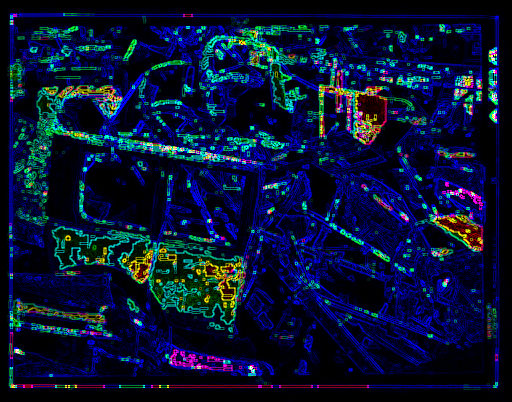
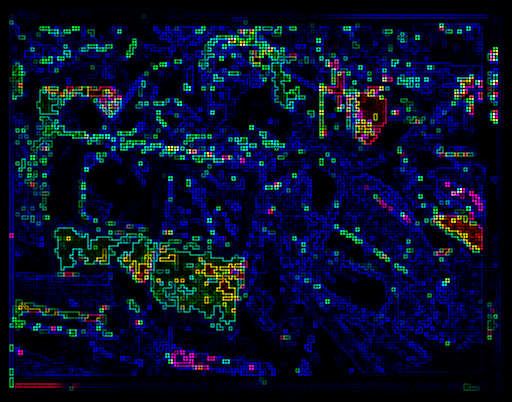
added user-input for pixelize step, updated readme to reflect current functionality

diff --git a/predator.py b/predator.py
@@ -13,20 +13,20 @@ def minmax_rgb(i, w, h, m):
                 minmax = min(i[x][y][0],i[x][y][1],i[x][y][2])
             else:
                 minmax = max(i[x][y][0],i[x][y][1],i[x][y][2])
-            if minmax == i[x][y][0]: # blue is least
+            if minmax == i[x][y][0]: # blue is least/most
                 i[x][y][1] = 0
                 i[x][y][2] = 0 
-            if minmax == i[x][y][1]: # green is least
+            if minmax == i[x][y][1]: # green is least/most
                 i[x][y][0] = 0
                 i[x][y][2] = 0
-            if minmax == i[x][y][2]: # red is least       
+            if minmax == i[x][y][2]: # red is least/most
                 i[x][y][0] = 0
                 i[x][y][1] = 0
             y+=1
         x+=1 
     return i
     
-def pixelize(i, pix_w, pix_h):
+def pixelize(i, s, pix_h):
     i_h, i_w = i.shape[:2]
     # shrink image
     i = cv.resize(i, (pix_w, pix_h), interpolation=cv.INTER_CUBIC)
@@ -35,22 +35,33 @@ def pixelize(i, pix_w, pix_h):
     return pixelized
 
 def sobel(i, k):
-    # the general convention is to use a gaussian blur on the image, 
+    # the general convention is to use a gaussian blur on the image,
     # but the pixelization should take care of that here.
     sobx = cv.Sobel(i,cv.CV_16S,1,0,ksize=k,scale=1,delta=0)
     soby = cv.Sobel(i,cv.CV_16S,0,1,ksize=k,scale=1,delta=0)
     abSobx = cv.convertScaleAbs(sobx) # makes the sobels absolute
     abSoby = cv.convertScaleAbs(soby)
-    # approximates the sobel algo
-    sobtot = cv.addWeighted(abSobx, 0.5, abSoby, 0.5, 0)  
-    cv.imshow('sobel\'d', sobtot)
+    # approximates the sobel algo using built-in cv2 functions
+    # the more precise methods produced far less consistent output,
+    # likely due to floating-point rounding errors
+    sobtot = cv.addWeighted(abSobx, 0.5, abSoby, 0.5, 0)
+    cv.imshow('output', sobtot)
     cv.waitKey(0)
     cv.destroyAllWindows()
 
-pix_w, pix_h = (64, 64)
-k = 3
-mode = 'min'
-if len(sys.argv) > 3:
+# check if a valid filename is given
+try:
+   i = cv.imread(sys.argv[1])
+   hig, wid, _ = i.shape
+except:
+    print("Error: image does not exist")
+    sys.exit(1)
+
+k = 3 # the 'k' value for the sobel filter. default of 3
+mode = 'min' # can choose to minimize or maximize RGB. default of min
+shrinkage = 3 # amount of pixelization averaging. default of 3x3 area
+
+if len(sys.argv) > 2: # if we have a second arg, it should be k
     k = int(sys.argv[2])
     if k%2 == 0:
         print("Error: k must be odd.")
@@ -58,18 +69,15 @@ if len(sys.argv) > 3:
     if k > 31:
         print("Error: k must be less than 32")
         sys.exit(1)
+if len(sys.argv) > 3: # third argument should be min or max
     mode = sys.argv[3]
-    if mode != 'min' or mode != 'max':
+    if mode != 'min' and mode != 'max':
         print("Error: third flag must be \"min\" or \"max\"")
         sys.exit(1)
-    pix_w = int(sys.argv[4])
-    pix_h = int(sys.argv[5])
-try:
-   i = cv.imread(sys.argv[1])
-   hig, wid, _ = i.shape
-except:
-    print("Error: image does not exist")
-    sys.exit(1)
+if len(sys.argv) > 4: # last arg should be the amount of pixelization
+    shrinkage = int(sys.argv[4])
+
+pix_w, pix_h = (int(wid/shrinkage), int(hig/shrinkage))
 j = minmax_rgb(i, wid, hig, mode)
 i = pixelize(j, pix_w, pix_h)
 sobel(i, k)

diff --git a/README.md b/README.md
@@ -4,7 +4,7 @@ Re-implements the GIMP "Predator" image transformation in python using the cv li
 # algorithm details
 This image transformation follows these three steps:
 
-1 - "pixelize" (average pixels in an X by X area, the size of which is defined by the user) (currently unimplemented)
+1 - "pixelize" (average pixels in an X by X area, the size of which is defined by the user)
 
 2 - "min/max RGB" (finds the smallest or largest of the R, G, B values and set the others to zero)
 
@@ -14,15 +14,17 @@ This image transformation follows these three steps:
 At present, this program must be run in the terminal window.
 Make sure to chmod the file if you want to run it without the python command!
 
-command for changed mode: \[user@domain]$ ./predator.py image-path \[k-value] \[minmax]
+command for changed mode: \[user@domain]$ ./predator.py image-path \[k-value] \[minmax] \[pixelize]
 
-command for unchanged mode:\[user@domain]$ python predator.py image-path \[k-value] \[minmax]
+command for unchanged mode:\[user@domain]$ python predator.py image-path \[k-value] \[minmax] \[pixelize-size]
 
 image-path - path to a desired image. This is the only required argument.
 
 k-value - the k-value needed by the sobel transformation. A higher value results in thicker edges. - default of 3
 
 minmax - "min" or "max", chooses whether to select the minimum or maximum RGB value for each pixel - default of "min"
+
+pixelize - the X of the pixelize step's X by X area
 
 # image details
 Included in this repository is an example image to put through the transformation, as well as the output of the image when the default values are used.
